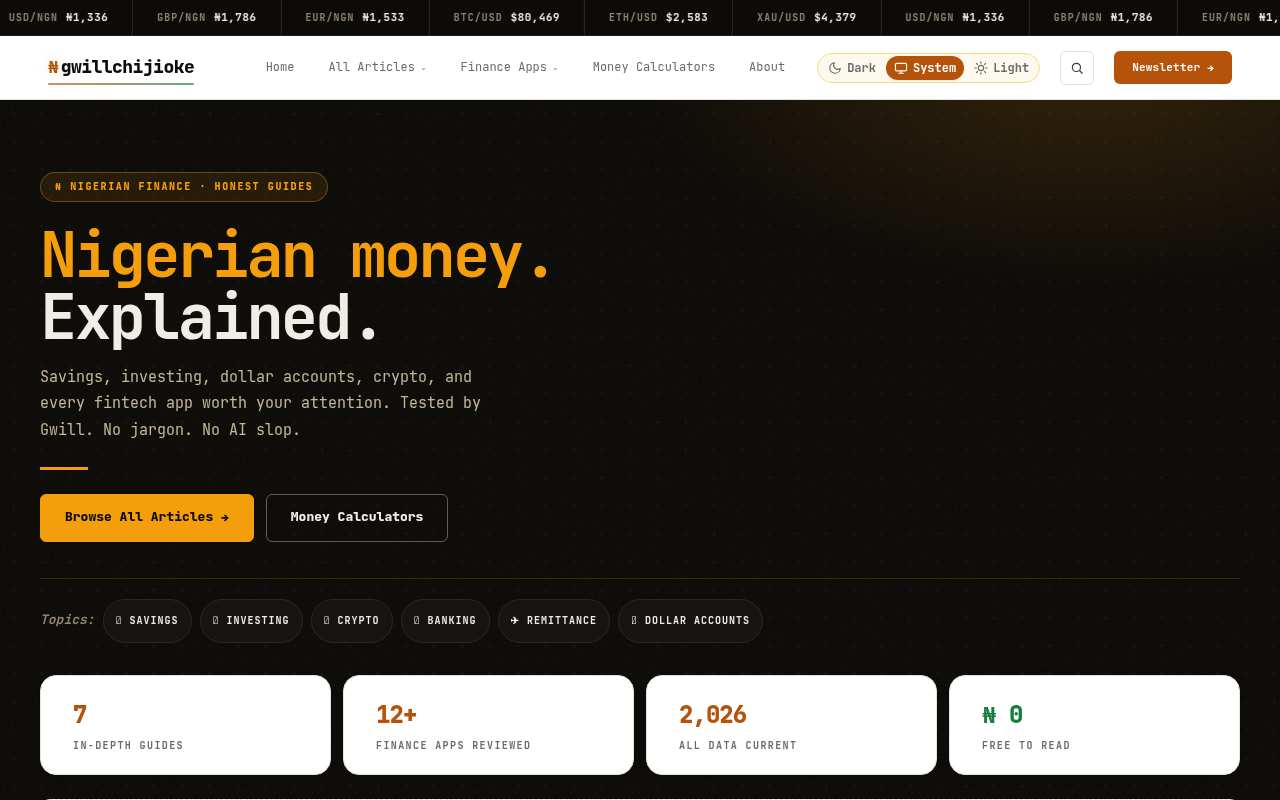
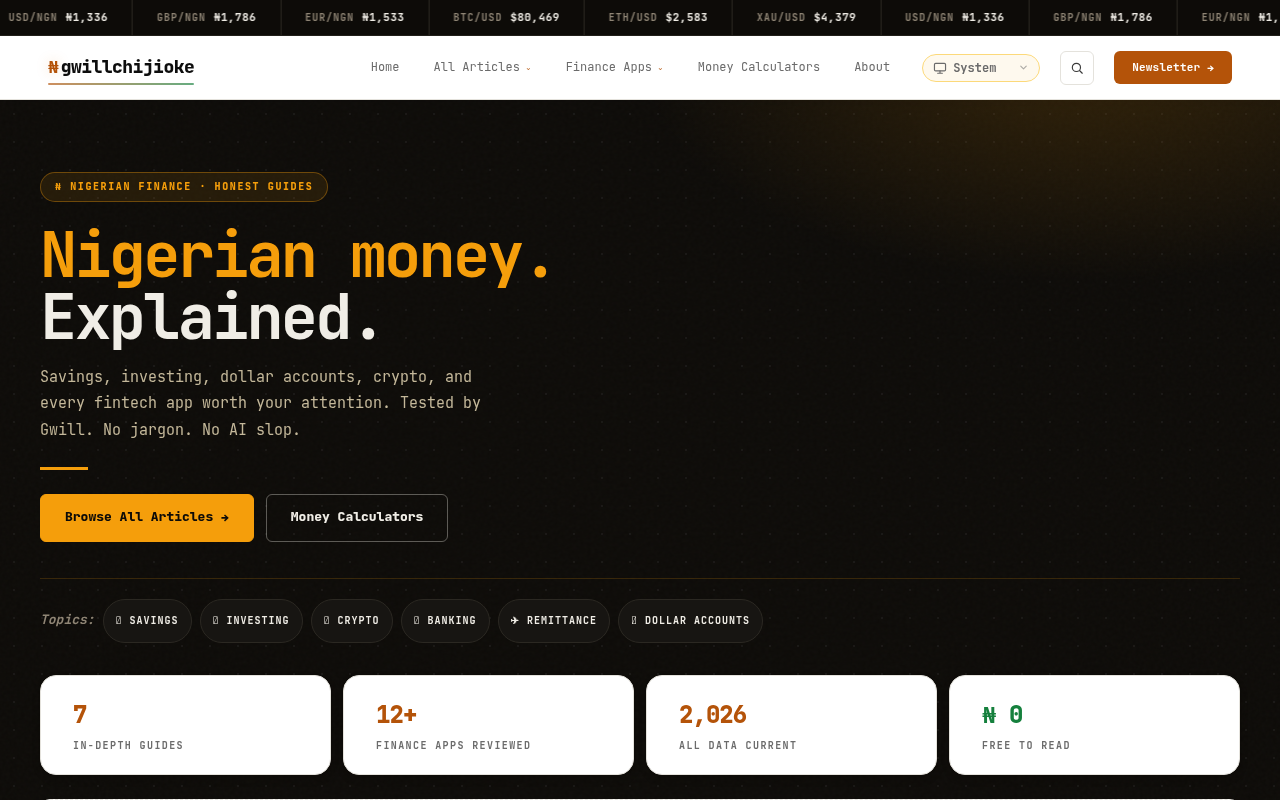
Evidence refresh + ledger for v0.1.2
The header breakpoint screenshots now show the single-button theme control
(live-URL renders). Docs/evidence only — dist/ unchanged, so the pages-dist
build stays byte-identical and needs no republish.

diff --git a/PENDING-WORK.md b/PENDING-WORK.md
@@ -25,6 +25,27 @@ Read this at session start.
       three CSS fixes; Chrome 153 matrix against the live URL → overflow 0 at
       390/768/1280, ticker 28/30/36px, no duplicate headers.
 
+## DONE — 2026-09-22 · Theme control: one button + popover (v0.1.2)
+
+- [x] Replaced the always-visible Dark · System · Light pill with ONE button per
+      header that opens a small popover. Default is still **System**.
+- [x] Same engine, same `gwill-finance-theme-v3` key, same pre-paint restore (no
+      flash); System still tracks the OS live, pinned Light/Dark still ignores it.
+- [x] Keyboard extended (arrows cycle when closed, move focus when open; Escape /
+      outside-click close); `aria-haspopup` + `aria-expanded` wired.
+- [x] Review-pass polish: popover sized to its trigger so the edges are flush,
+      brand amber (`--gold-b`) active row in both themes, 12px panel radius with
+      6px nested rows, label hidden only below 480px.
+- [x] Gate: +2 assertions. `npm run check` → 2/2 green (vectors 95/95).
+- [x] Shipped: `main` `8223dc9`; staging `pages-dist` `934fe58`.
+- [x] Verified live: Pages `built` for `934fe58`; served bytes carry the new
+      markup + CSS; full behavioural pass against the live URL (first paint closed
+      → open → pick Dark → reload persists → pick System removes key → Escape /
+      outside-click close → 390px variant); no regression in the responsive header
+      matrix (overflow 0 at 390/768/1280, ticker 28/30/36px).
+- [x] Cost: no new request, no library, no build change (single HTML doc, 5
+      resource requests).
+
 ## PENDING
 
 - [ ] **M-TABLET-PARITY** — WP's `@media (max-width: 1023px)` block also carries
